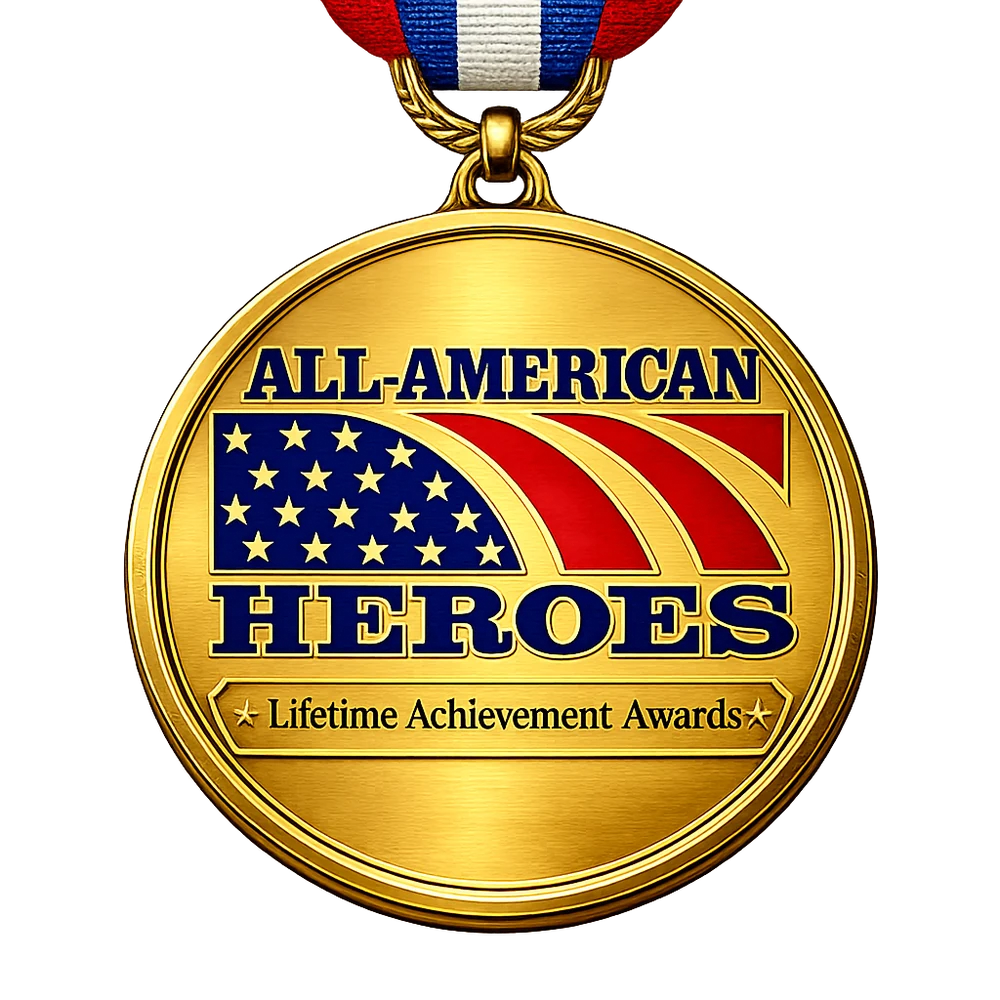
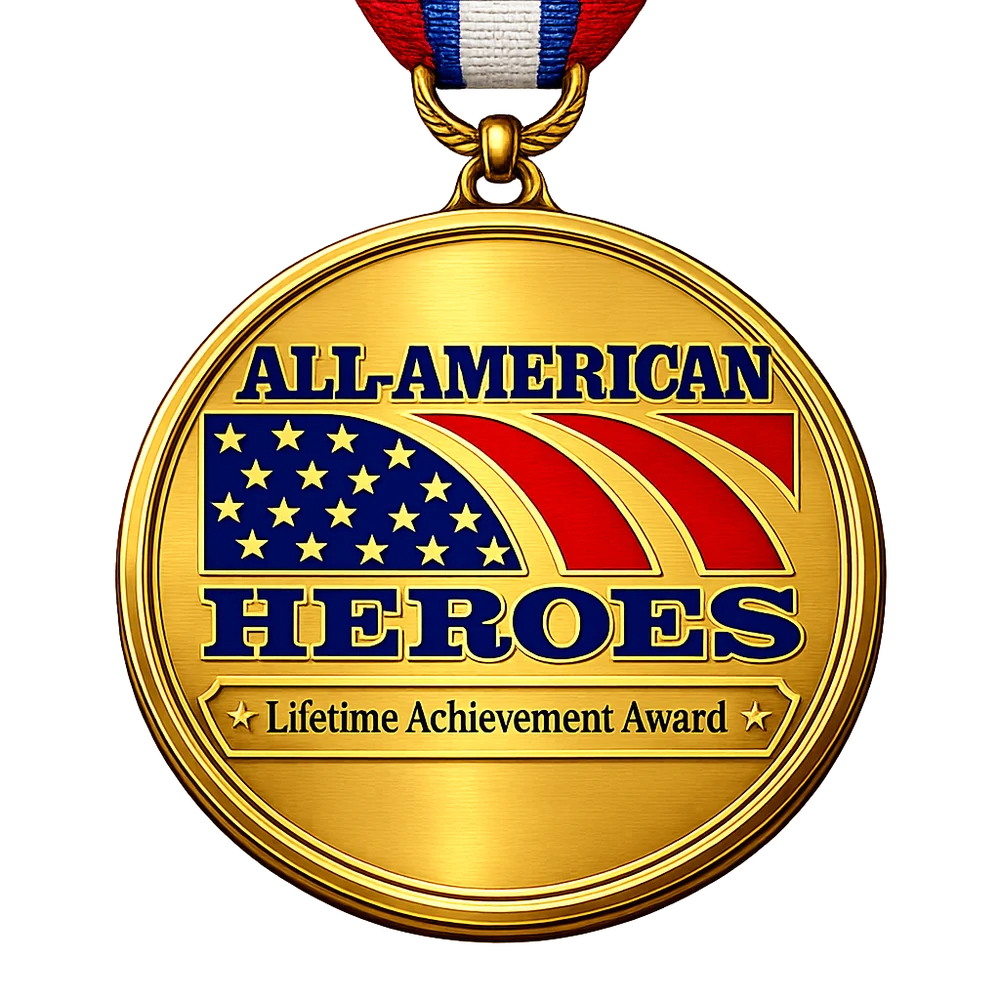
Heroes section: swap in updated medal artwork
Replaces the medal asset with Mike's revised version (provided
in Downloads as 'All-American Heroes Lifetime Achievement Award
Metal 2.png'). Processed through the same Pillow pipeline:

  PNG fallback:  1000x1000  ~1,053 KB
  WebP source:   1000x1000  ~245 KB

Filenames unchanged (all-amer-heroes-medal.png / .webp), so the
existing <picture> markup picks the new files up automatically —
no template edits required. Display size and placement stay
identical (controlled by the wrapper's responsive width
classes).

Changed region(s): [[0.093, 0.0, 0.899, 0.961]]

diff --git a/scripts/swap_medal.py b/scripts/swap_medal.py
@@ -1,0 +1,23 @@
+"""Swap in the new medal image, keeping the same filenames, max-width,
+and output formats (PNG fallback + WebP) as the existing assets."""
+from pathlib import Path
+from PIL import Image, ImageOps
+
+SRC      = Path(r"C:/Users/USER/Downloads/All-American Heroes Lifetime Achievement Award Metal 2.png")
+DST_PNG  = Path(r"C:/Users/USER/countdown250/public/images/misc/all-amer-heroes-medal.png")
+DST_WEBP = Path(r"C:/Users/USER/countdown250/public/images/misc/all-amer-heroes-medal.webp")
+MAX_W    = 1000  # same as before
+
+img = Image.open(SRC)
+img = ImageOps.exif_transpose(img)
+if img.mode not in ("RGBA", "LA"):
+    img = img.convert("RGBA")
+if img.width > MAX_W:
+    ratio = MAX_W / img.width
+    img = img.resize((MAX_W, int(round(img.height * ratio))), Image.LANCZOS)
+
+img.save(DST_PNG,  format="PNG",  optimize=True)
+img.save(DST_WEBP, format="WEBP", quality=88, method=6, lossless=False)
+
+print(f"PNG:  {DST_PNG.stat().st_size/1024:7.1f} KB  ({img.width}x{img.height})")
+print(f"WebP: {DST_WEBP.stat().st_size/1024:7.1f} KB  ({img.width}x{img.height})")
